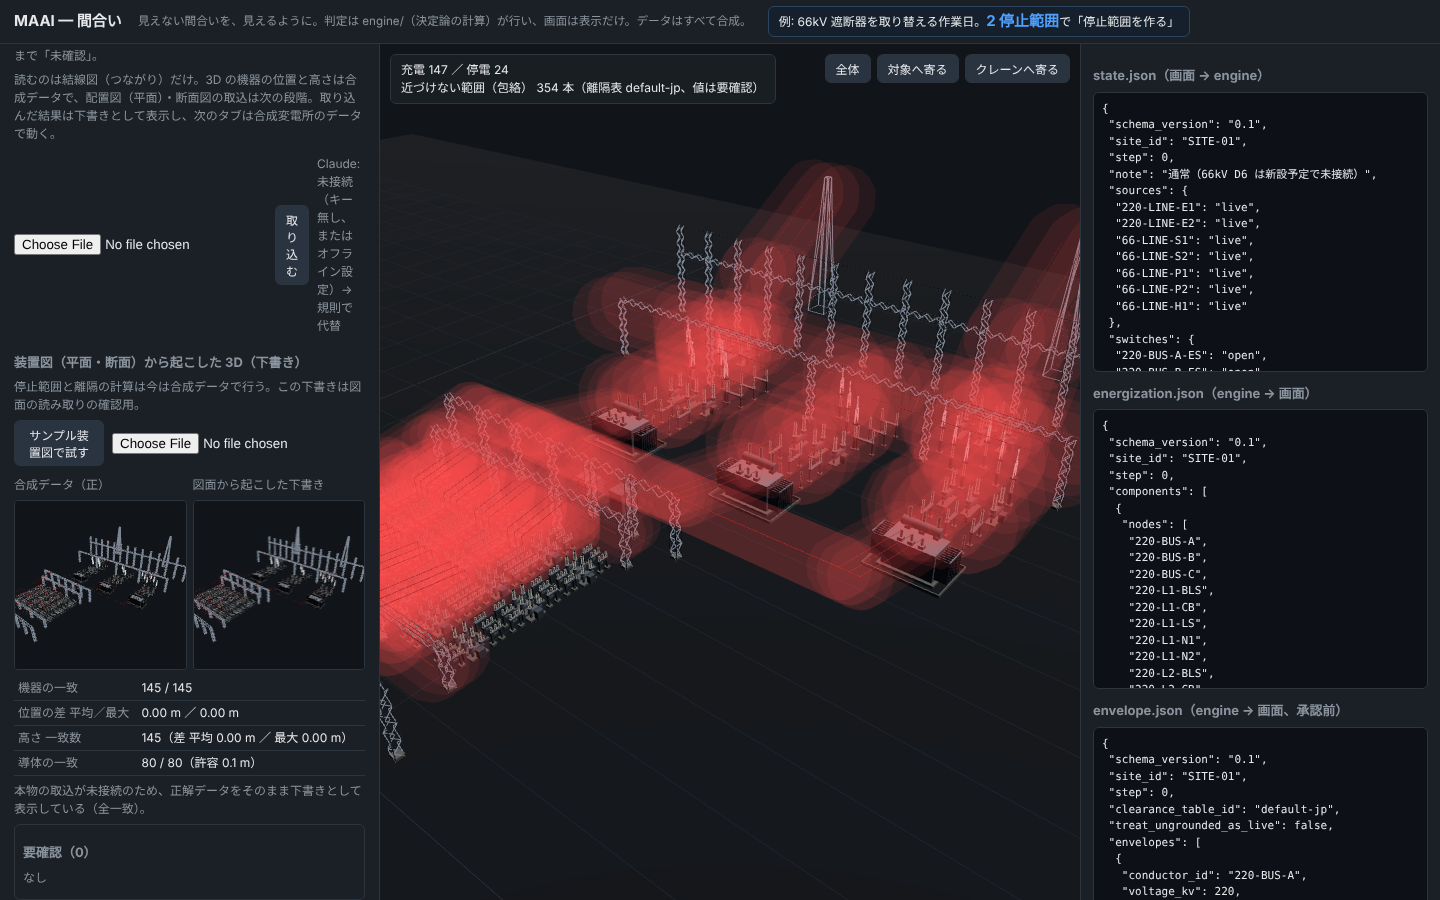
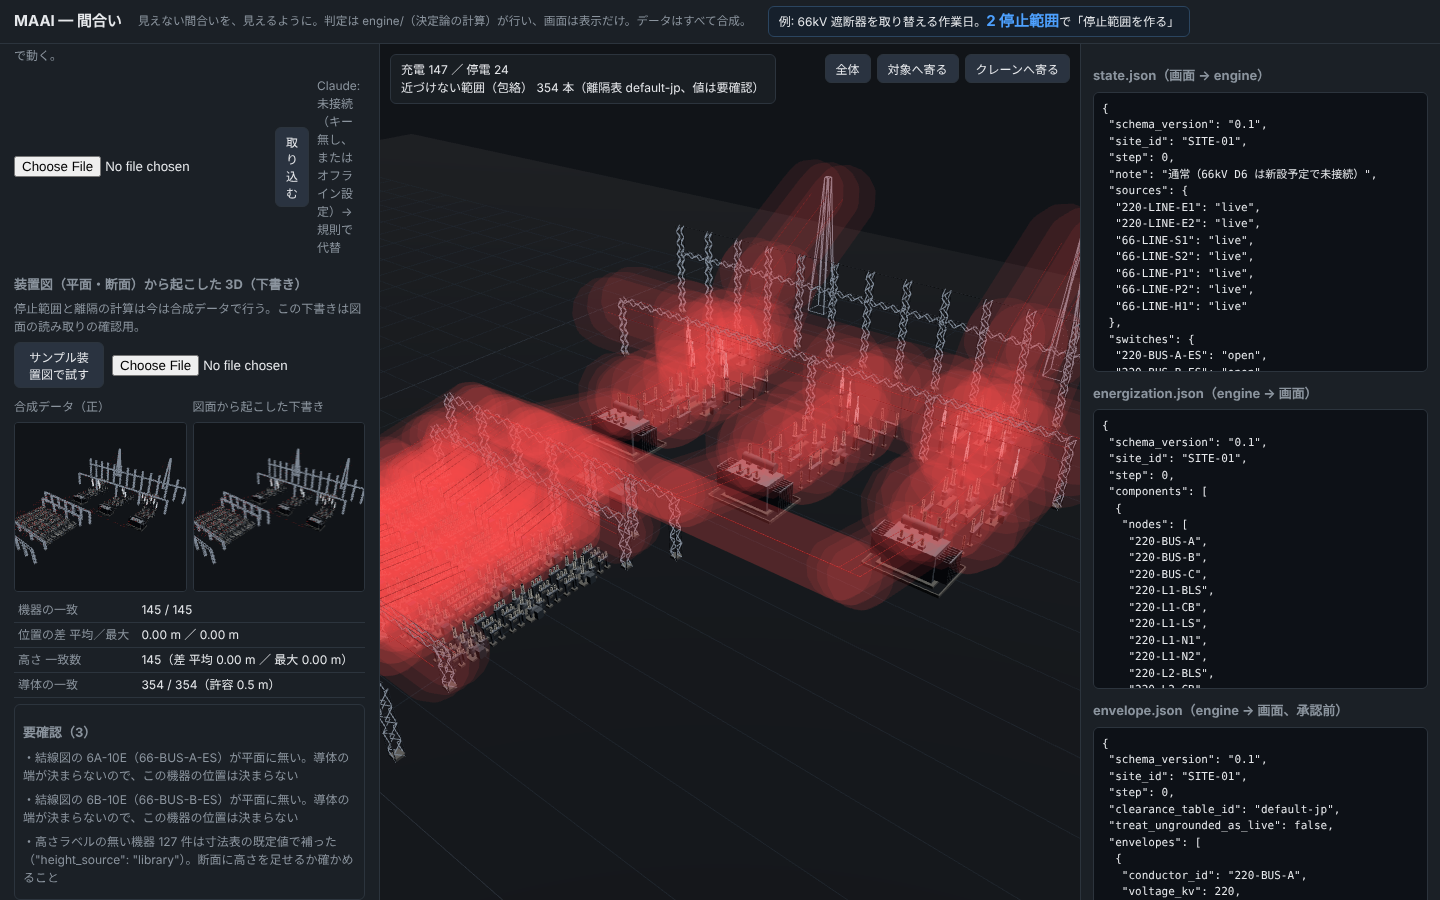
装置図から起こす 3D の下書きを本物の読み取りにつなぎ、画面・ブラウザ版・文章を整える
Claude-Session: https://claude.ai/code/session_01LwsL2ajguhZWXd8ym1YxdB

Changed region(s): [[0.0, 0.0311, 0.25, 0.9644]]

diff --git a/web/index.html b/web/index.html
@@ -323,11 +323,10 @@ async function runLayoutDraft(sample){
     if (!r.ok){ let m=''; try{ m=(await r.json()).detail; }catch(e){} box.innerHTML=`<div class="warn">${m||'装置図を読めなかった'}（${r.status}）</div>`; return; }
     const j=await r.json(); const e=j.eval, c=e.conductor_match||{}; const f2=v=>(v==null?'—':(+v).toFixed(2));
     const truth=await (await fetch('/api/sites/SITE-01')).json();
-    const qs=[...(j.questions||[]).map(q=>typeof q==='string'?q:(q.message||JSON.stringify(q))), ...(j.consistency||[]).map(x=>x.message||x.id)];
+    const qs=[...(j.questions||[]).map(q=>typeof q==='string'?q:(q.message||JSON.stringify(q)))];
     miniViews.splice(0).forEach(v=>{ v.r.dispose(); v.r.domElement.remove(); });
     box.innerHTML=`<div style="display:grid;grid-template-columns:1fr 1fr;gap:6px"><div><div class="note">合成データ（正）</div><div class="mini" id="miniL"></div></div><div><div class="note">図面から起こした下書き</div><div class="mini" id="miniR"></div></div></div>`
       +`<table style="margin-top:6px"><tr><th>機器の一致</th><td>${e.apparatus_matched} / ${e.apparatus_total}</td></tr><tr><th>位置の差 平均／最大</th><td>${f2(e.position_error_mean_m)} m ／ ${f2(e.position_error_max_m)} m</td></tr><tr><th>高さ 一致数</th><td>${e.height_matched}（差 平均 ${f2(e.height_error_mean_m)} m ／ 最大 ${f2(e.height_error_max_m)} m）</td></tr><tr><th>導体の一致</th><td>${c.matched} / ${c.total}${c.tolerance_m!=null?`（許容 ${c.tolerance_m} m）`:''}</td></tr></table>`
-      +(j.stub?'<div class="note">本物の取込が未接続のため、正解データをそのまま下書きとして表示している（全一致）。</div>':'')
       +`<div class="bay"><h4>要確認（${qs.length}）</h4>`+(qs.length?qs.map(q=>`<div class="note">・${q}</div>`).join(''):'<div class="note">なし</div>')+`</div>`;
     miniView($('miniL'), {topology:truth.topology, layout:truth.layout});
     miniView($('miniR'), {topology:truth.topology, layout:j.layout});

diff --git a/server/app.py b/server/app.py
@@ -276,16 +276,9 @@ async def post_ingest(file: UploadFile):
 
 
 # ---- 装置図（平面・断面）から起こす 3D の下書き。他のタブの計算には一切関わらない。
-# 本物の取込が無い間は server/layout_stub.py に切り替える（統合のときはこの try/except と stub を消す）。
-try:
-    from ingest.pdf_layout import extract_layout as _extract_layout
-    from ingest.layout_build import build_layout as _build_layout, check_consistency as _check_consistency
-    from scripts.eval_layout import evaluate_layout as _evaluate_layout
-    _LAYOUT_STUB = False
-except ImportError:
-    from server.layout_stub import (extract_layout as _extract_layout, build_layout as _build_layout,
-                                    check_consistency as _check_consistency, evaluate_layout as _evaluate_layout)
-    _LAYOUT_STUB = True
+from ingest.pdf_layout import extract_layout as _extract_layout
+from ingest.layout_build import build_layout as _build_layout, check_consistency as _check_consistency
+from scripts.eval_layout import evaluate_layout as _evaluate_layout
 SAMPLE_LAYOUT_PDF = SITES / "SITE-01" / "drawings" / "SITE-01_layout.pdf"
 
 
@@ -293,7 +286,7 @@ def run_layout(pdf_path: Path) -> dict:
     """装置図 PDF → 下書き layout と、正解（truth の layout）との一致。失敗は HTTP 400（日本語の理由）。"""
     try:
         site = load_site("SITE-01")
-        extracted = _extract_layout(pdf_path, site["topology"])
+        extracted = _extract_layout(pdf_path, topology=site["topology"])
         consistency = _check_consistency(site["topology"], extracted)
         draft = _build_layout(site["topology"], extracted)
         ev = _evaluate_layout(draft, site["layout"])
@@ -302,7 +295,7 @@ def run_layout(pdf_path: Path) -> dict:
     except Exception as e:
         raise HTTPException(400, f"装置図を読めなかった（{type(e).__name__}: {e}）")
     return {"layout": draft, "questions": draft.get("questions", extracted.get("questions", [])),
-            "consistency": consistency, "eval": ev, "stats": extracted.get("stats", {}), "stub": _LAYOUT_STUB}
+            "consistency": consistency, "eval": ev, "stats": extracted.get("stats", {})}
 
 
 def ingest_layout_sample() -> dict:

diff --git a/docs/demo-plan.md b/docs/demo-plan.md
@@ -15,17 +15,17 @@
 | 時間 | 画面 | 語り |
 |---|---|---|
 | 0:00–0:20 | 題の札 → 3D 全体（平常、全部赤） | （名乗るかは本人判断。例: 電力会社で変電所の工事の計画を担当しています）機器を取り替える日も、変電所は全部は止められません。隣には電気の流れる線が残り、そこへクレーンが入ります。近づいてはいけない距離は、図面のどこにも描かれていない。担当者の頭の中と、現場で見張る人の目の中にあります。MAAI、間合い。見えない間合いを、見えるようにする道具です |
-| 0:20–0:40 | タブ 1。「サンプル図面で試す」（またはPDFを選ぶ）→ 開閉器が番号で並ぶ → 質問 9 → 「質問の無いものを確認済にする」 | 入口は、いつもの単線結線図です。線と記号と番号から、つながりを起こします。つながりを決めるのは計算。Claude は記号の種別を確かめ、迷った所を人への質問にします |
-| 0:40–1:05 | タブ 2。対象「6T-110（66kV 遮断器）」→ 停止範囲を作る → 結線図で緑の破線の区間に寄る → 開閉器を一つ押して赤に変わるのを見せ、戻す | この日に取り替えるのは 66kV の遮断器。電気が流れ込む端すべてで、最初の断路器まで切ります。緑が停電、赤が充電。開閉器を押せば、その場で塗り替わる。接地を取ることは、計画の条件として必ず書きます |
-| 1:05–1:40 | タブ 3。「一番小さいクレーンを選ぶ」→ 50t 級。一つ下が使えない理由 → 追加で止めた場合「1 号変圧器を止めれば 25t 級」→ 採用 → 可 | クレーンは小さいほど安い。ブームは取り替える機器の真上と、資材置場の真上に来ます。その 2 点と重さから、届いて、吊れて、充電部に近づかない一番小さいクレーンを計算で選ぶ。答えは 50t 級。一つ下は、1 号変圧器の線に近づきすぎて使えない。では、その変圧器も止めたら。25t 級で済む。止めるかどうかは、人が決めます |
-| 1:40–2:05 | タブ 4。条件を見せる → 承認して書き出す → step-1-sld.pdf を開く（塗り分けた結線図） | 承認は人。承認の瞬間にもう一度判定し直し、不可の計画と、クレーンの無い計画は承認できません。停止範囲図と、接地や追加停止の条件が書き出されます |
-| 2:05–2:20 | README の「設計判断」→ `docs/claude-boundary.md` → GitHub の check の表を一瞬 | 安全の判断は計算で、説明は Claude で。Claude の出力は計算コードで確かめ直してから出し、採否は人が決めます。push のたびに、この流れを通しで動かして確かめています |
-| 2:20–2:50 | 現地表示の構想の映像（`ar-concept.mp4`、30 秒。画面に「構想のイメージ・未実装」が出続ける） | この先は現地です。承認した計画をスマホで、かざすだけ。映った機器を図面の 3D と照らし合わせて位置を合わせ、合った分だけ、離隔の範囲を重ねる。ずれの分は太らせる。同じ並びが続いて位置が決まらないときは、出さない。取り違えが一番の危険だからです。課電はカメラでは当てません。図面と開閉器の状態から、計算で決めます |
-| 2:50–3:00 | 締めの札（ブラウザ版の URL 入り） | （込めた思い。本人の言葉に言い換えてよい）現場の安全を、見張る人の目と、経験者の頭の中だけに置かない。人が入れ替わっても、同じ答えにたどり着ける道具にしたい。見えない間合いを、見えるように |
+| 0:20–0:48 | タブ 1。「サンプル図面で試す」（またはPDFを選ぶ）→ 開閉器が番号で並ぶ → 質問 9 → 「質問の無いものを確認済にする」→ 装置図で試す → 左右の 3D と一致の表（145/145、要確認 3） | 入口は、いつもの単線結線図です。線と記号と番号から、つながりを起こします。つながりを決めるのは計算。Claude は記号の種別を確かめ、迷った所を人への質問にします。装置図と断面図からは、機器の位置と高さを読んで 3D を組み立て直します。読めなかった所は、要確認として人に戻します |
+| 0:48–1:13 | タブ 2。対象「6T-110（66kV 遮断器）」→ 停止範囲を作る → 結線図で緑の破線の区間に寄る → 開閉器を一つ押して赤に変わるのを見せ、戻す | この日に取り替えるのは 66kV の遮断器。電気が流れ込む端すべてで、最初の断路器まで切ります。緑が停電、赤が充電。開閉器を押せば、その場で塗り替わる。接地を取ることは、計画の条件として必ず書きます |
+| 1:13–1:48 | タブ 3。「一番小さいクレーンを選ぶ」→ 50t 級。一つ下が使えない理由 → 追加で止めた場合「1 号変圧器を止めれば 25t 級」→ 採用 → 可 | クレーンは小さいほど安い。ブームは取り替える機器の真上と、資材置場の真上に来ます。その 2 点と重さから、届いて、吊れて、充電部に近づかない一番小さいクレーンを計算で選ぶ。答えは 50t 級。一つ下は、1 号変圧器の線に近づきすぎて使えない。では、その変圧器も止めたら。25t 級で済む。止めるかどうかは、人が決めます |
+| 1:48–2:13 | タブ 4。条件を見せる → 承認して書き出す → step-1-sld.pdf を開く（塗り分けた結線図） | 承認は人。承認の瞬間にもう一度判定し直し、不可の計画と、クレーンの無い計画は承認できません。停止範囲図と、接地や追加停止の条件が書き出されます |
+| 2:13–2:21 | README の「設計判断」→ `docs/claude-boundary.md` → GitHub の check の表を一瞬 | 安全の判断は計算で、説明は Claude で。Claude の出力は計算コードで確かめ直してから出し、採否は人が決めます。push のたびに、この流れを通しで動かして確かめています |
+| 2:21–2:51 | 現地表示の構想の映像（`ar-concept.mp4`、30 秒。画面に「構想のイメージ・未実装」が出続ける） | この先は現地です。承認した計画をスマホで、かざすだけ。映った機器を図面の 3D と照らし合わせて位置を合わせ、合った分だけ、離隔の範囲を重ねる。ずれの分は太らせる。同じ並びが続いて位置が決まらないときは、出さない。取り違えが一番の危険だからです。課電はカメラでは当てません。図面と開閉器の状態から、計算で決めます |
+| 2:51–3:00 | 締めの札（ブラウザ版の URL 入り） | （込めた思い。本人の言葉に言い換えてよい）現場の安全を、見張る人の目と、経験者の頭の中だけに置かない。人が入れ替わっても、同じ答えにたどり着ける道具にしたい。見えない間合いを、見えるように |
 
 ## 切る順（時間が足りなければ）
 
-1. 2:05–2:20 の仕組みの説明を 8 秒に（「安全の判断は計算で、説明は Claude で。採否は人が決めます」だけ）
+1. 2:13–2:21 の仕組みの説明を 8 秒に（「安全の判断は計算で、説明は Claude で。採否は人が決めます」だけ）
 2. 取込の「確認済にする」操作を省き、取込結果の一瞬だけ
 3. 結線図で開閉器を押す操作を省く
 4. 現地表示の映像を 20 秒で止める（問いかけの札の後、クレーンの場面の前）
@@ -33,6 +33,7 @@
 ## 画面操作のメモ
 
 - 見本は 66kV 1 号ダイヤの遮断器（6T-110）。最小の停止範囲では 50t 級、1 号変圧器を追加で止めれば 25t 級になる（`python scripts/check_demo.py` の 3・4 と同じ）
+- 装置図の下書きは、タブ 1 の「サンプル装置図で試す」。左が合成データ、右が図面から起こした 3D。要確認 3 件（66kV 母線の接地開閉器 2 件が平面に無い、高さを既定値で補った 127 件）を読み上げず見せるだけにする
 - 結線図は右上の「拡大」で寄る。停止範囲を作ると対象の位置へ自動で寄る
 - 3D の視点ボタン: 全体／対象へ寄る／クレーンへ寄る。配置を採用すると自動でクレーンへ寄る
 - 右の JSON 列は映さなくてよい

diff --git a/README.md b/README.md
@@ -33,7 +33,7 @@
 
 | | タブ | 何をするか | 誰が決めるか |
 |---|---|---|---|
-| 1 | 図面取込 | 単線結線図（ベクター PDF）を読み込む。線・開閉器記号・番号から接続を起こし、開閉器が「未確認」で並ぶ。種別の確認と質問文は Claude（呼べなければ規則） | 接続は決定論。確認は人 |
+| 1 | 図面取込 | 単線結線図（ベクター PDF）を読み込む。線・開閉器記号・番号から接続を起こし、開閉器が「未確認」で並ぶ。種別の確認と質問文は Claude（呼べなければ規則）。装置図（平面・断面）からは機器の位置と高さを読み、結線図の接続と合わせて 3D を組み立て直す（下書き）。読めない所は要確認として人に戻す | 接続・位置の読み取りは決定論。確認は人 |
 | 2 | 停止範囲 | その日に取り替える機器を選ぶと、作業日の停止範囲が出る。作業する機器に電気が流れ込む端すべてで、最初に出会う断路器まで（途中の遮断器も）切る。送電線は相手端を切る条件、止めない母線は端子の切り離し。中央の単線結線図で、停電（緑の破線）と充電（赤）を追い、図を押して開閉器を入・切できる | 決定論。止めるかどうかは人 |
 | 3 | 重機 | 吊る機器（取り替える機器の真上）と資材置場（の真上）と重さから、届いて・吊れて・充電部の離隔を保てる一番小さいクレーンと据付位置を選ぶ。一つ下のクラスが使えない理由と、追加で止めれば何級で済むかも出す。手で置いて確かめ、修正案を出すこともできる | 選定と判定は決定論。採用は人 |
 | 4 | 計画確定 | 承認すると、もう一度判定し直してから `approved/` に plan・envelope・停止範囲図（塗り分けた単線結線図 PDF）を書き出す。接地を取る条件などを計画に書く。不可と、重機の無い計画は承認できない | 人 |
@@ -101,11 +101,11 @@ uvicorn server.app:app --reload     # http://localhost:8000
   - 比較用に、法令の値（基発第759号、こちらのほうが小さい）も同じ表に置いています。
   - 値は社により差があるので「要確認」としています。工事ごとに管轄の事業者に確かめてください。
 - クレーンの荷重表（13t・16t・25t・50t 級）と吊る機器の重さは例示値です（`data/tables/cranes.json`、要確認）。特定の製品の表ではありません。
-- 図面取込はベクター PDF（線と文字が取り出せるもの）が対象で、スキャン画像の PDF は対象外です。読むのは単線結線図（つながり）だけで、3D の機器の位置と高さは合成データです。
+- 図面取込はベクター PDF（線と文字が取り出せるもの）が対象で、スキャン画像の PDF は対象外です。読むのは単線結線図（つながり）と装置図（平面・断面。機器の位置と高さ）です。停止範囲と離隔の計算は今も合成変電所のデータで行い、装置図から起こした 3D は読み取りの確認用の下書きです。断面の枠は生成器の寸法を使っていて、図面の表題欄から読むのはこの先です。実物の図面は未確認です。
 
 ## この先
 
-- 配置図（平面）と断面図の取込（結線図と同じ開閉器番号で結ぶ）。今は 3D の位置と高さは合成データで、取り込んだ結線図は下書きの表示まで（停止範囲の計算は合成変電所のデータで動く）
+- 配置図・断面図から起こした 3D を、停止範囲と離隔の計算に使う（今は下書きの表示と一致の確認まで）
 - 複数の作業日を並べて持つ（今は 1 日ずつ）。据付可能な範囲（地盤・搬入路）を一般平面図から取る
 - 作業指示の自然文から、止められない回線・作業対象・重機を取り出す
 - 停止要否検討書の文章

diff --git a/docs/decisions.md b/docs/decisions.md
@@ -2,6 +2,13 @@
 
 新しいものを上に書く。1件1〜3行。「何を選び、何を捨て、なぜか」を残す。
 
+## 2026-11-07
+
+- **図面→3D の下書きを足す。** 肝は「見えない充電部を自分の変電所の形で見る」こと。結線図（つながり）・装置図の平面（位置）・断面図（高さ）を機器番号で結び、3D を組み立て直す。読めない所・合わない番号は要確認として人に戻す。
+- **図面の描き方の規則（`synth/drawing_rules.py`）を生成側と読む側で共有する。** 流儀が二重にならず、生成を変えれば読みも追随し、`scripts/eval_layout.py` で一致を測れる。読む側は決定論で逆変換し、Claude は使わない。
+- **停止範囲と離隔の計算は引き続き合成データで行う。** 下書きでは判定しない（実物の図面は未確認で、断面の枠も生成器の寸法を使っている）。計算に使うのは、読み取りの一致が確かめられた後。
+- docs/img/ui-1-layout-draft.png: 合成変電所（SITE-01）の 3D を画面撮影したもの（装置図から起こした下書きの比較）。実物の写真・図面ではない。
+
 ## 2026-11-06
 
 - **変圧器を取り替えるときは、専用ベイを母線の手前まで止める（本人の判断。STATUS の判断 #1 で B）。** 線路側断路器のとき「遮断器と母線側断路器も切るのが普通」と同じ考え方。隣の断路器だけで止めると、遮断器まわりが充電のまま残り、実務より大きいクレーンを選んでしまう。1・1/2 母線の共有の遮断器は平常どおり運用する。専用ベイは「遮断器が 1 台のベイ」で見分ける。
@@ -100,5 +107,3 @@
 - **安全判断は決定論、Claude は意味づけと提案。** 課電判定・距離・干渉は `engine/` が計算しテストで固める。Claude の提案は必ずエンジンで再検証し、採否は人が決める。
 - **データはすべて合成。** 社内の図面・写真・情報は社外に出せない。接続する事業者名などを外部 AI に渡すことは電気事業法の行為規制にも関わりうるため、マスキング関門（許可リスト方式）を設計の中心に置く。
 - **11/2 に共有された観点と照らして未決の論点**: MCP の採用（`agent/tools.py` をローカルの MCP サーバとしても公開する案）、完成の定義に「1コマンド起動・サンプル即表示・キー無しで全画面」を加える案。11/3 中に決める（`docs/spec.md` §16）。
-
-- 2026-11-07 docs/img/ui-1-layout-draft.png: 合成変電所（SITE-01）の 3D を画面撮影したもの（装置図から起こした下書きの比較）。実物の写真・図面ではない。

diff --git a/docs/claude-boundary.md b/docs/claude-boundary.md
@@ -13,6 +13,7 @@ MAAI は安全に関わる道具なので、どこを人と決定論コードが
 | 提案の採否 | 人 | 現場の責任は人にある。Claude の提案は必ずエンジンで再検証してから表示する |
 | 外に出す情報の選別 | `agent/mask.py`（置換表） | 社内情報を外部に出せない現場で使える前提条件。線路名・所名を符号に置き換え、戻すのはローカル。決定論で動き、モデルを呼ばない |
 | 図面からの結線の読み取り（どの導体が何につながるか） | `ingest/pdf_sld.py` | 線の太さ・交点・記号の位置で決まる。Claude に接続を決めさせると、間違いが静かに通る |
+| 図面からの位置・高さの読み取り | `ingest/pdf_layout.py`、`synth/drawing_rules.py` | 図面の流儀を規則にして生成側と読む側で共有し、決定論で逆変換する。読めない文字・合わない番号は要確認として人に戻す |
 | 修正案の候補づくりと再判定 | `engine/propose.py` | 候補はパラメータの組み合わせで列挙でき、各候補は同じ判定器にかけるだけ |
 
 ## 任せる（Claude が持つ）
